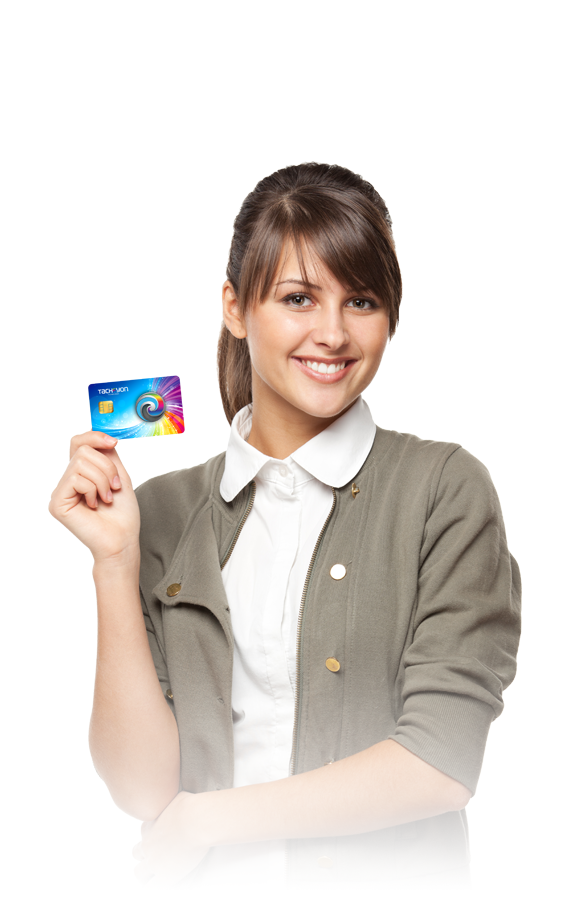
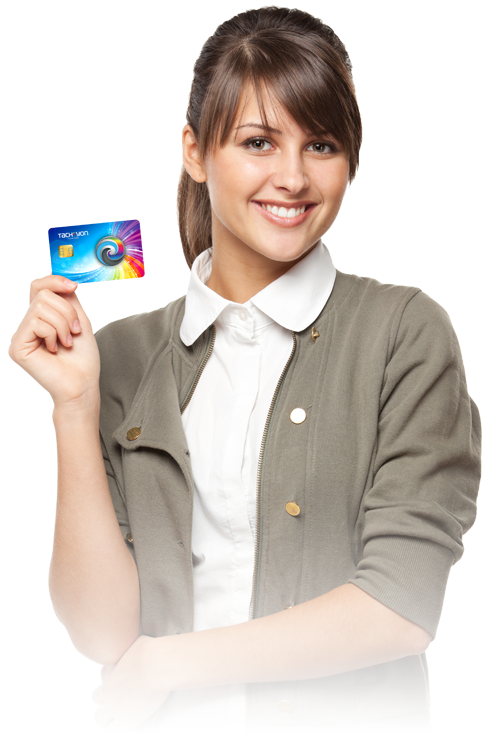
Basic Update

diff --git a/src/Components/Home/Banner.jsx b/src/Components/Home/Banner.jsx
@@ -6,66 +6,40 @@ import { Link } from 'react-router'
 
 function Banner() {
     return (
-        <div className=' flex items-center justify-center z-40'>
-            <div className='flex flex-col-reverse lg:flex-row items-center justify-between mx-auto max-w-7xl text-center lg:text-left'>
+        <div className='flex items-center justify-center z-40  bg-pink-50' >
+
+            <div className='flex flex-col-reverse lg:flex-row items-center justify-between mx-auto max-w-6xl text-center lg:text-left'>
 
                 {/* ---------name and title-------- */}
-                <div className=' px-10 pb-10 lg:pb-0'>
+                <div className=' pl-10 pb-10 lg:pb-0 lg:w-1/2'>
 
                     <Slide>
-                        <h1 className='lg:text-7xl text-4xl text-blue-200 font-medium py-3'>
+                        <h1 className='lg:text-6xl space-y-4 text-4xl text-pink-600 font-medium py-3'>
                             Easy, fee-free banking
-                            <span className='text-blue-600 mt-4'> for entrepreneurs</span>
+                            <span className='text-pink-800 mt-4'> for entrepreneurs</span>
                         </h1>
 
-                        <div className='text-blue-400  h-10 my-3'>
+                        <div className='text-gray-600  h-10 my-3 text-2xl font-medium'>
                             <p>
-                                Get the financial tools and insights to start, build, and grow your business.
+                                Get the financial tools and insights to start,
+                                <br /> build, and grow your business.
                             </p>
                         </div>
 
-                        {/* -------------------social logos------------ */}
-                        <div className='my-5 flex items-center justify-center lg:justify-start gap-4 font-serif  text-xl'>
-                            <a
-                                href="https://github.com/kamrul2006"
-                                className='text-blue-500 hover:text-black hover:bg-blue-500 rounded-full  transition p-2 border border-blue-400'>
-                                <FiGithub />
-                            </a>
-
-                            <a
-                                href="https://www.linkedin.com"
-                                className='text-blue-500 hover:text-black hover:bg-blue-500 rounded-full  transition p-2 border border-blue-400'> <FiLinkedin />
-                            </a>
-
-                            <a
-                                href="https://x.com/kamrul__2006"
-                                className='text-blue-500 hover:text-black hover:bg-blue-500 rounded-full  transition p-2 border border-blue-400'>
-                                <FiTwitter />
-                            </a>
-
-                            <a
-                                href="https://facebook.com/kamrul.islam.apurba"
-                                className='text-blue-500 hover:text-black hover:bg-blue-500 rounded-full  transition p-2 border border-blue-400'>
-                                <FiFacebook />
-                            </a>
-
-
-                        </div>
-
                         {/* -------------other Buttons---------- */}
-                        <div className='mt-10 space-x-3 font-semibold flex items-center justify-center lg:justify-start'>
+                        <div className='mt-16 space-x-3 font-semibold flex items-center justify-center lg:justify-start'>
 
                             <Link
                                 to={"/about"}
-                                className=' py-2  px-5 lg:px-9 lg:text-lg rounded-full bg-blue-600 text-black hover:border-2 hover:bg-black transition hover:border-blue-600 hover:text-blue-600 flex items-center justify-center gap-3 hover:drop-shadow-2xl hover:drop-shadow-blue-950'>
+                                className=' py-3 px-5 lg:px-9 lg:text-lg rounded-xl bg-pink-600 text-pink-50 hover:border-2 hover:bg-transparent transition hover:border-pink-600 hover:text-pink-600 flex items-center justify-center gap-3 hover:drop-shadow-2xl hover:drop-shadow-pink-950'>
                                 Explore More <BiRightArrow />
                             </Link>
 
                             <a
                                 href="/RESUME OF KAMRUL ISLAM .pdf"
                                 download
-                                className='border-2 hover:bg-blue-600 hover:text-white border-blue-600 text-blue-600 rounded-full transition py-2  px-5 lg:px-9 lg:text-lg hover:drop-shadow-2xl hover:border-0 hover:drop-shadow-blue-950'>
-                                Download CV
+                                className='border-2 hover:bg-pink-600 hover:text-white border-pink-600 text-pink-600 rounded-xl transition py-3  px-5 lg:px-9 lg:text-lg hover:drop-shadow-2xl hover:border-0 hover:drop-shadow-pink-950'>
+                                Get Started
                             </a>
                         </div>
 
@@ -73,9 +47,13 @@ function Banner() {
                 </div>
 
                 {/* ----------image---------------- */}
-                <div className='lg:w-1/2'>
+                <div className='lg:w-1/2 bg-contain bg-center w-full'
+                    style={{
+                        backgroundImage:
+                            "url(/bbg.png)",
+                    }}>
                     <Fade delay={400}>
-                        <img src="Ccard.png" alt="abc" className='lg:w-full w-10/12 mx-auto rounded-b-full lg:rounded-none mb-5 lg:mb-0 border-b-4 lg:border-0 border-blue-500' />
+                        <img src="Card.png" alt="abc" className=' w-10/12 mx-auto rounded-b-full lg:rounded-none mb-5 lg:mb-0 border-b-4 lg:border-0 border-pink-500 p-4' />
                     </Fade>
                 </div>
 

diff --git a/src/Components/Fixed/NavBar.jsx b/src/Components/Fixed/NavBar.jsx
@@ -22,7 +22,7 @@ const NavBar = () => {
                     {/* Logo */}
                     <Link
                         to="/"
-                        className="text-3xl font-extrabold tracking-tight bg-gradient-to-r from-blue-500 via-blue-300 to-blue-700 text-transparent bg-clip-text"
+                        className="text-3xl font-extrabold tracking-tight bg-gradient-to-r from-pink-500 via-pink-300 to-pink-700 text-transparent bg-clip-text"
                     >
                         KI Bank
                     </Link>
@@ -34,8 +34,8 @@ const NavBar = () => {
                                 key={link.path}
                                 to={link.path}
                                 className={({ isActive }) =>
-                                    `relative font-medium text-base transition duration-300 ${isActive ? "text-blue-600 border-b-2 transition" : "text-gray-400 hover:text-blue-600"
-                                    } after:block after:h-[2px] after:bg-blue-500 after:scale-x-0 after:hover:scale-x-100 after:origin-left after:transition-transform`
+                                    `relative text-black text-lg transition duration-300 ${isActive ? "text-pink-700 border-b-2 transition" : "text-gray-700 hover:text-pink-600"
+                                    } `
                                 }
                             >
                                 {link.name}
@@ -50,7 +50,7 @@ const NavBar = () => {
                         <a
                             href=""
 
-                            className="ml-4 bg-gradient-to-r from-blue-700 to-blue-400  hover:to-blue-700 hover:from-blue-400   text-white px-4 py-2 rounded shadow-md transition duration-300 hover:drop-shadow-2xl font-semibold hidden lg:block"
+                            className="ml-4 bg-gradient-to-r from-pink-700 to-pink-400  hover:to-pink-700 hover:from-pink-400   text-white px-4 py-2 rounded shadow-md transition duration-300 hover:drop-shadow-2xl font-semibold hidden lg:block"
                         >
                             Get Card
                         </a>
@@ -60,7 +60,7 @@ const NavBar = () => {
                     <div className="md:hidden">
                         <button
                             onClick={() => setIsOpen(!isOpen)}
-                            className="text-gray-400 hover:text-blue-600 transition"
+                            className="text-gray-400 hover:text-pink-600 transition"
                         >
                             {isOpen ? <FaTimes size={24} /> : <FaBars size={24} />}
                         </button>
@@ -78,7 +78,7 @@ const NavBar = () => {
                                 to={link.path}
                                 onClick={() => setIsOpen(false)}
                                 className={({ isActive }) =>
-                                    `text-lg font-semibold transition ${isActive ? "text-blue-600 underline" : "text-gray-700 hover:text-blue-600"
+                                    `text-lg font-semibold transition ${isActive ? "text-pink-600 underline" : "text-gray-700 hover:text-pink-600"
                                     }`
                                 }
                             >
@@ -87,7 +87,7 @@ const NavBar = () => {
                         ))}
                         <a
                             href=""
-                            className="ml-4 bg-gradient-to-r from-blue-700 to-blue-400  hover:to-blue-700 hover:from-blue-400   text-white px-4 py-2 rounded shadow-md transition duration-300 hover:drop-shadow-2xl font-semibold "
+                            className="ml-4 bg-gradient-to-r from-pink-700 to-pink-400  hover:to-pink-700 hover:from-pink-400   text-white px-4 py-2 rounded shadow-md transition duration-300 hover:drop-shadow-2xl font-semibold "
                         >
                             Get Card
                         </a>

diff --git a/src/Components/Fixed/Footer.jsx b/src/Components/Fixed/Footer.jsx
@@ -5,7 +5,7 @@ import { Link, NavLink } from 'react-router'
 export const Footer = () => {
     return (
         <div>
-            <footer className="footer footer-horizontal footer-center border-t border-blue-500 bg-black text-blue-500 rounded p-10">
+            <footer className="footer footer-horizontal footer-center border-t border-pink-500 bg-black text-pink-500 rounded p-10">
                 <nav className="grid grid-flow-col gap-4">
                     <NavLink to={'/'}>Home</NavLink>
                     <NavLink to={'/about'}>About</NavLink>
@@ -15,13 +15,13 @@ export const Footer = () => {
                 <nav>
                     <div className="grid grid-flow-col gap-4 text-3xl">
                         <a>
-                            <FaFacebook className='hover:text-blue-500 transition' />
+                            <FaFacebook className='hover:text-pink-500 transition' />
                         </a>
                         <a>
-                            <FaInstagram className='hover:text-blue-500 transition' />
+                            <FaInstagram className='hover:text-pink-500 transition' />
                         </a>
                         <a>
-                            <FaTwitter className='hover:text-blue-500 transition' />
+                            <FaTwitter className='hover:text-pink-500 transition' />
                         </a>
                     </div>
                 </nav>

diff --git a/src/Components/Fixed/ErrorPage.jsx b/src/Components/Fixed/ErrorPage.jsx
@@ -5,14 +5,14 @@ const ErrorPage = () => {
     return (
         <div className="flex items-center justify-center min-h-screen bg-gray-100 px-4">
             <div className="text-center">
-                <h1 className="text-7xl font-extrabold text-blue-600">404</h1>
+                <h1 className="text-7xl font-extrabold text-pink-600">404</h1>
                 <h2 className="text-2xl mt-4 font-semibold text-gray-800">Page Not Found</h2>
                 <p className="text-gray-600 mt-2 mb-6">
                     Sorry, the page you’re looking for doesn’t exist or has been moved.
                 </p>
                 <Link
                     to="/"
-                    className="inline-flex items-center gap-2 bg-blue-600 hover:bg-blue-700 text-white px-5 py-2.5 rounded-full transition"
+                    className="inline-flex items-center gap-2 bg-pink-600 hover:bg-pink-700 text-white px-5 py-2.5 rounded-full transition"
                 >
                     <FaArrowLeft />
                     Go Back Home

diff --git a/index.html b/index.html
@@ -9,20 +9,20 @@
 
   <link rel="preconnect" href="https://fonts.googleapis.com">
   <link rel="preconnect" href="https://fonts.gstatic.com" crossorigin>
-  <link
-    href="https://fonts.googleapis.com/css2?family=Barlow+Condensed:ital,wght@0,100;0,200;0,300;0,400;0,500;0,600;0,700;0,800;0,900;1,100;1,200;1,300;1,400;1,500;1,600;1,700;1,800;1,900&display=swap"
+  <link href="https://fonts.googleapis.com/css2?family=Exo:ital,wght@0,100..900;1,100..900&display=swap"
     rel="stylesheet">
 
   <style>
-    .barlow {
-      font-family: "Barlow Condensed", sans-serif;
-      font-weight: 100;
+    .exo {
+      font-family: "Exo", sans-serif;
+      font-optical-sizing: auto;
+      font-weight: 300;
       font-style: normal;
     }
   </style>
 </head>
 
-<body class="barlow">
+<body class="exo">
   <div id="root"></div>
   <script type="module" src="/src/main.jsx"></script>
 </body>
